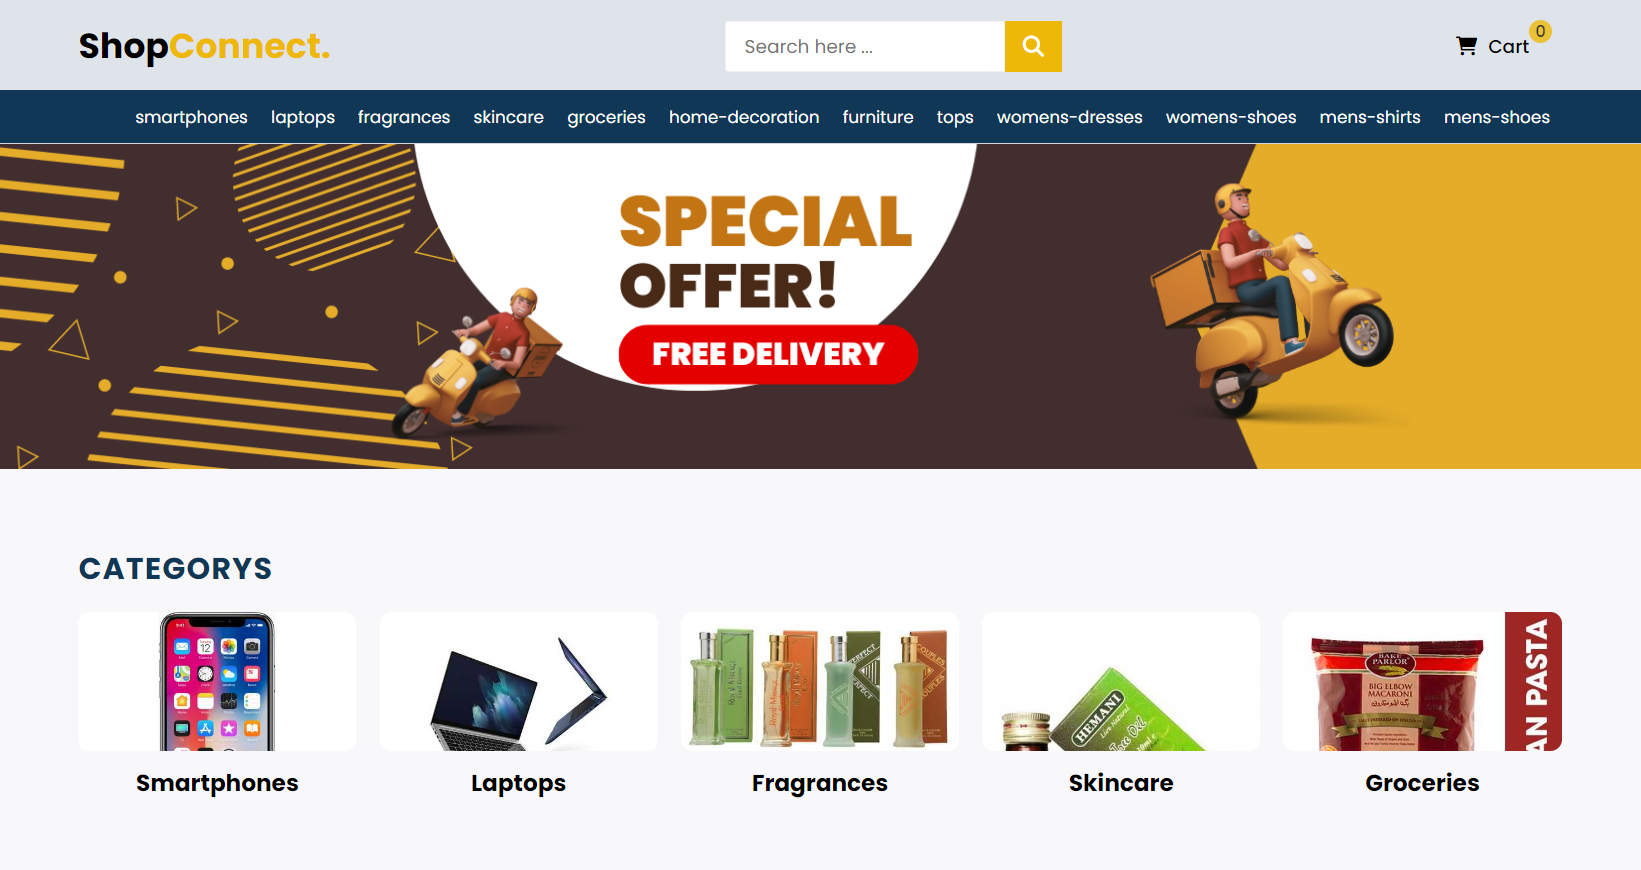
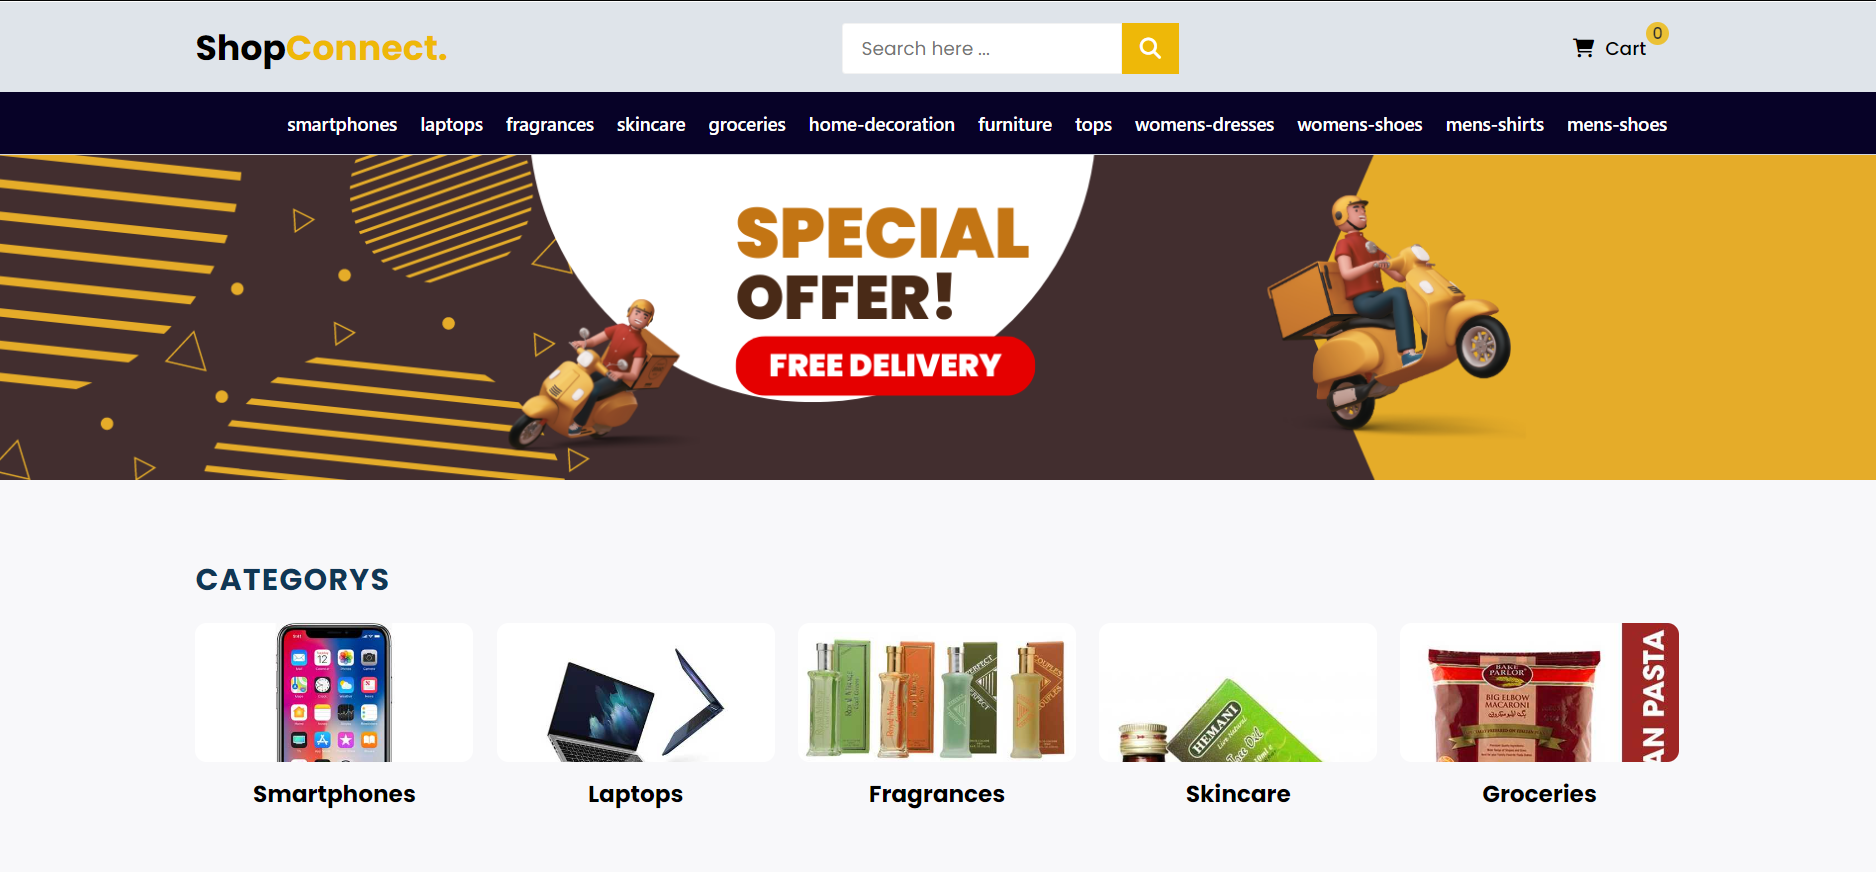
fixed bugs

diff --git a/src/components/Navbar/Navbar.scss b/src/components/Navbar/Navbar.scss
@@ -69,11 +69,14 @@
         }
     }
     .navbar-bottom{
-        padding: 10px 0;
+        font-family: system-ui, -apple-system, BlinkMacSystemFont, 'Segoe UI', Roboto, Oxygen, Ubuntu, Cantarell, 'Open Sans', 'Helvetica Neue', sans-serif;
+        font-weight: 500;
+        background-color: rgb(7, 2, 39);
+        padding: 14px 0;
         margin-top: 14px;
 
         > .container{
-            justify-content: flex-end;
+            justify-content:flex-end;
         }
 
         .nav-links{
@@ -82,11 +85,11 @@
             }
             .nav-link{
                 
-                font-size: 14.5px;
+                font-size: 16px;
                 transition: $transition;
 
                 &:hover{
-                    font-size: 16px;
+                    font-size: 17px;
                     opacity: 0.8;
                 }
             }
@@ -116,6 +119,7 @@
 
     @media screen and (max-width: 1285px){
         .nav-links{
+          
             position: fixed;
             top: 0;
             right: 0;

diff --git a/src/components/Navbar/Navbar.js b/src/components/Navbar/Navbar.js
@@ -69,30 +69,7 @@ const Navbar = () => {
     }
   };
 
-  // function searchProduct() {
-  //   try {
-  //     const response = fetch(
-  //       `${BASE_URL}products/search?q=${keyword}`
-  //     ).then(async (res) => {
-  //       const data0 = await res.json();
-  //       const data = data0.products;
-
-  //       for (let i = 0; i < data.length; i++) {
-  //         const id = cat.indexOf(data[i].category);
-  //         const name = data[i].category;
-  //         const image = "null";
-
-  //         data[i].category = { "id": id, "name": name, "image": image };
-  //       }
-
-  //       history('/search');
-  //     });
-  //   }
-  //   catch (error) {
-  //     console.error('Error fetching data from API:', error);
-  //   }
-  // }
-
+ 
   return (
     <nav className="navbar">
       <div className="navbar-content">

diff --git a/src/components/Slider/Slider.js b/src/components/Slider/Slider.js
@@ -7,7 +7,7 @@ import {sliderImages} from '../../utils/images';
 const Slider = () => {
   return (
     <div className = "hero-slider">
-      <div className='hero-slider-item'>
+      <div className='hero-slider-item image1'>
         <img src = {sliderImages[1]} alt = "" />
       </div>
     </div>

diff --git a/src/components/Category/Category.scss b/src/components/Category/Category.scss
@@ -16,10 +16,11 @@
             padding: 12px 0;
         }
     }
-
+  
     @media screen and (min-width: 576px){
         grid-template-columns: repeat(2, 1fr);
         column-gap: 20px;
+        
     }
 
     @media screen and (min-width: 992px){

diff --git a/src/components/Slider/Slider.scss b/src/components/Slider/Slider.scss
@@ -1,4 +1,5 @@
 @import "../../App.scss";
+
 .hero-slider{
     &-item{
         height: 280px;
@@ -9,3 +10,12 @@
         }
     }
 }
+
+
+ 
+ @media only screen and (max-width: 950px){ //some value
+    .image1{
+      display: none;
+    }
+ 
+ }
